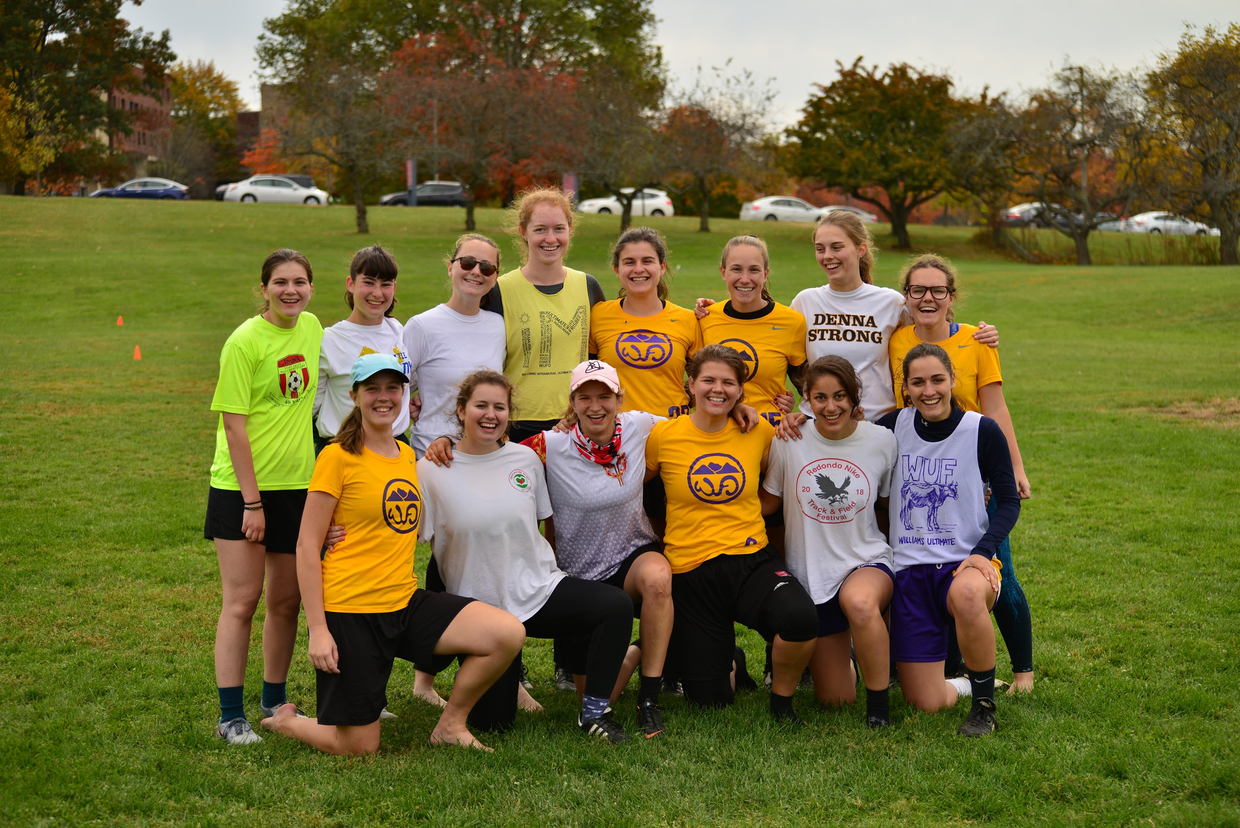
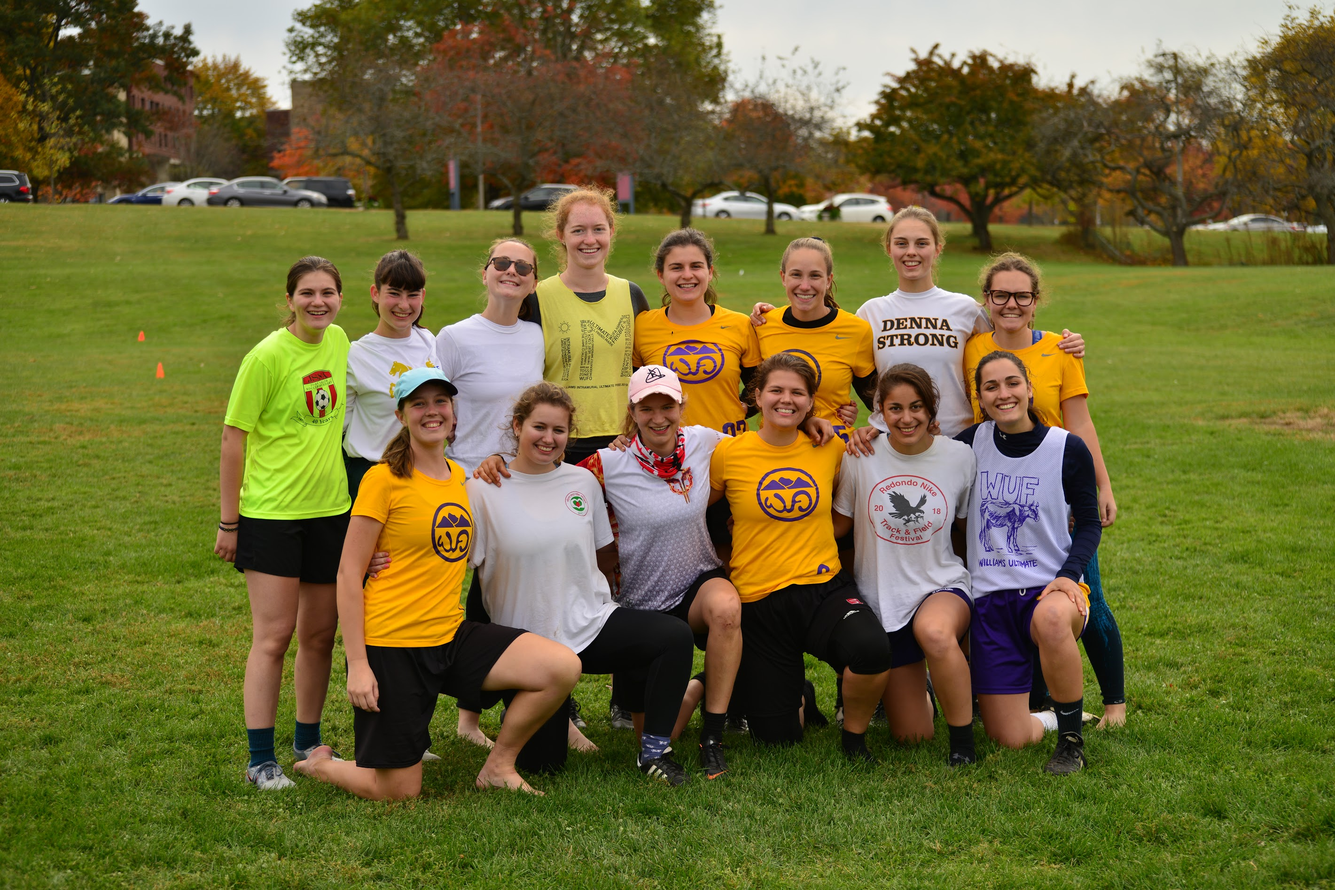
fixed overflow; high quality images; un-italicized caption

diff --git a/docs/index.html b/docs/index.html
@@ -41,20 +41,20 @@
     <div class="container main">
       <div class="row justify-content-center text-center">
         <h1 class="name">Williams College Ultimate Frisbee</h1>
-        <h2 class="caption-landing mb-3"><em>The best that Williams has to offer.</em></h2>
+        <h2 class="caption-landing mb-3">The best that Williams has to offer.</h2>
 
         <div class="row justify-content-center mt-3">
-          <div class="col-md-6 text-center mb-3">
+          <div class="col-sm-6 text-center mb-3">
             <img src="assets/wufoteam.JPG" alt="WUFO" width="85%" class="img-fluid rounded">
             <h3 class="mt-3 team-name">WUFO</h3>
             <img src="assets/wufo.png" alt="WUFO Logo" width="23%" class="img-fluid">
           </div>
-          <div class="col-md-6 text-center mb-3">
+          <div class="col-sm-6 text-center mb-3">
             <img src="assets/lawufateam.JPG" alt="La WUFA" width="85%" class="img-fluid rounded">
             <h3 class="mt-3 team-name">La WUFA</h3>
             <img src="assets/lawufa.png" alt="La WUFA Logo" width="35%" class="img-fluid">
           </div>
-          <div class="col-md-6 text-center mb-3">
+          <div class="col-sm-6 text-center mb-3">
             <img src="assets/buf.jpeg" alt="BUF" width="85%" class="img-fluid rounded">
             <h3 class="mt-3 team-name">BUF</h3>
           </div>

diff --git a/docs/styles/themes.css b/docs/styles/themes.css
@@ -6,6 +6,7 @@
 
 .page {
   position: relative;
+  overflow: hidden;
 }
 
 body,
@@ -31,30 +32,18 @@ body,
   font-size: 36px;
   z-index: 9;
   mix-blend-mode: overlay;
-  text-shadow: 8px 8px 10px black;
+  text-shadow: -8px 8px 10px black;
 }
 
 .banner {
   width: 100%;
-  height: 350px;
+  height: 30%;
   background: linear-gradient(45deg, #2F1C53, #A46DFF, #F6D1FD);
   position: absolute;
   top: 0;
   transform: skewY(-10deg);
   transform-origin: 0;
 }
-
-.banner2 {
-  width: 100%;
-  height: 150px;
-  background: linear-gradient(45deg, #2F1C53, #A46DFF, #F6D1FD);
-  position: absolute;
-  top: 0;
-  transform: skewY(10deg);
-  transform-origin: 0;
-  z-index: -1;
-}
-
 
 .main {
   margin-top: 5%;
@@ -67,7 +56,7 @@ body,
 }
 
 .rounded {
-  box-shadow: 4px 4px 10px black;
+  box-shadow: -4px 4px 10px black;
 }
 
 .team-name {
@@ -84,12 +73,19 @@ body,
   }
 }
 
-@media (min-width: 800px) {
+@media (min-width: 768px) {
   .banner {
-    height: 650px;
+    height: 54.5%;
   }
 
   .banner2 {
-    height: 350px;
+    width: 100%;
+    height: 30%;
+    background: linear-gradient(45deg, #2F1C53, #A46DFF, #F6D1FD);
+    position: absolute;
+    top: 0;
+    transform: skewY(10deg);
+    transform-origin: 0;
+    z-index: -1;
   }
 }
